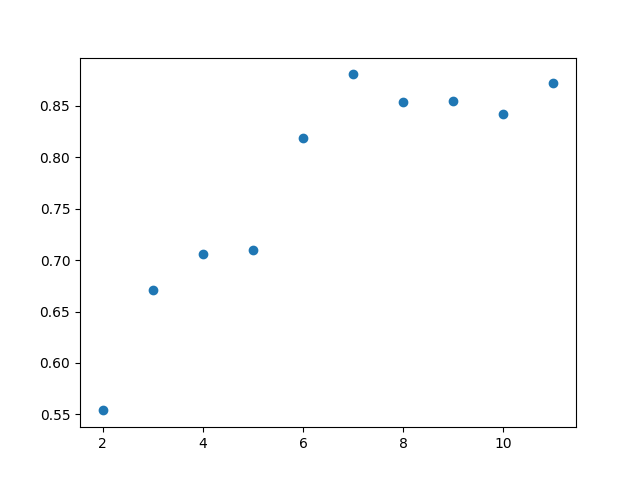
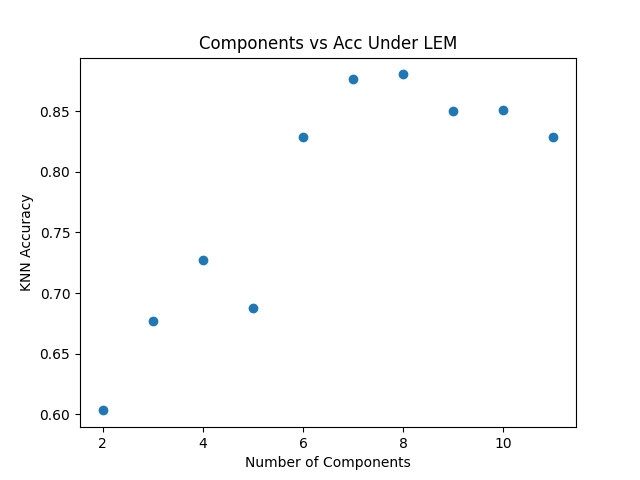
final commit

diff --git a/LLE.py b/LLE.py
@@ -7,28 +7,48 @@ from sklearn.preprocessing import StandardScaler
 from sklearn.neighbors import KNeighborsClassifier
 from sklearn.model_selection import train_test_split
 import matplotlib.pyplot as plt
+import numpy as np
 
 x, y = get_data()
 
 scaler = StandardScaler()
 dat_scaled = scaler.fit_transform(x)
 
-n_comp = []
+# n_comp = []
+# score = []
+# for n in range(2, 12):
+#     embedd = LocallyLinearEmbedding(n_components = n)
+#     dat_embedd = pd.DataFrame(embedd.fit_transform(dat_scaled))
+
+#     x_train, x_test, y_train, y_test = train_test_split(dat_embedd, y, test_size=.2, random_state=0)
+
+#     clf = KNeighborsClassifier(n_neighbors=2)
+#     clf.fit(x_train, y_train)
+#     acc = clf.score(x_test, y_test)
+
+#     n_comp.append(n)
+#     score.append(acc)
+
+
+# plt.figure() 
+# plt.scatter(n_comp, score)
+# plt.title('Components vs Acc Under LLE')
+# plt.xlabel('Number of Components')
+# plt.ylabel('KNN Accuracy')
+# plt.savefig('./fig/LLE.png')
+
+embedd = LocallyLinearEmbedding(n_components=11)
+dat_embedd = pd.DataFrame(embedd.fit_transform(dat_scaled))
+
 score = []
-for n in range(2, 12):
-    embedd = LocallyLinearEmbedding(n_components = n)
-    dat_embedd = pd.DataFrame(embedd.fit_transform(x))
 
-    x_train, x_test, y_train, y_test = train_test_split(dat_embedd, y, test_size=.2, random_state=0)
-
+for n in range(20):
+    x_train, x_test, y_train, y_test = train_test_split(dat_embedd, y, test_size=.2)
+    
     clf = KNeighborsClassifier(n_neighbors=2)
     clf.fit(x_train, y_train)
     acc = clf.score(x_test, y_test)
-
-    n_comp.append(n)
     score.append(acc)
 
-
-plt.figure() 
-plt.scatter(n_comp, score)
-plt.savefig('./fig/LLE.png')
+print(np.mean(score))
+    

diff --git a/pca.py b/pca.py
@@ -6,6 +6,7 @@ from sklearn.decomposition import PCA
 from sklearn.preprocessing import StandardScaler
 from sklearn.neighbors import KNeighborsClassifier
 from sklearn.model_selection import train_test_split
+import matplotlib.pyplot as plt
 
 x, y = get_data()
 
@@ -14,15 +15,37 @@ scaling = StandardScaler()
 scaling.fit(x)
 scaled_data = scaling.transform(x)
 
-components = PCA(n_components=11)    
-dat_pca = pd.DataFrame(components.fit_transform(scaled_data))
+# components = PCA(n_components=11)    
+# dat_pca = pd.DataFrame(components.fit_transform(scaled_data))
 
-x_train, x_test, y_train, y_test = train_test_split(dat_pca, y, test_size=.2, random_state=0)
+# x_train, x_test, y_train, y_test = train_test_split(dat_pca, y, test_size=.2, random_state=0)
 
-clf = KNeighborsClassifier(n_neighbors=2)
-clf.fit(x_train, y_train)
-acc = clf.score(x_test, y_test)
+# clf = KNeighborsClassifier(n_neighbors=2)
+# clf.fit(x_train, y_train)
+# acc = clf.score(x_test, y_test)
 
-print(acc)
+# print(components.explained_variance_ratio_)
+
 
 # From graph it seems the most optimal amount of components is 7
+n_comp = []
+score = []
+for n in range(2, 12):
+    components = PCA(n_components=n)
+    dat_pca = pd.DataFrame(components.fit_transform(scaled_data))
+
+    x_train, x_test, y_train, y_test = train_test_split(dat_pca, y, test_size=.2)
+    
+    clf = KNeighborsClassifier(n_neighbors=2)
+    clf.fit(x_train, y_train)
+    acc = clf.score(x_test, y_test)
+    
+    n_comp.append(n)
+    score.append(acc)
+
+plt.figure()
+plt.scatter(n_comp, score)
+plt.title('Components vs. Acc Under PCA')
+plt.xlabel('Number of Components')
+plt.ylabel('KNN Accuracy')
+plt.savefig('./fig/pca.png')

diff --git a/knn.py b/knn.py
@@ -4,16 +4,21 @@ import pandas as pd
 from process import get_data
 from sklearn.neighbors import KNeighborsClassifier
 from sklearn.model_selection import train_test_split
+import numpy as np
 
 x, y = get_data()
 
-x_train, x_test, y_train, y_test = train_test_split(x, y, test_size=.2, random_state=0)
+score = []
+for n in range(20):
+    x_train, x_test, y_train, y_test = train_test_split(x, y, test_size=.2)
 
-clf = KNeighborsClassifier(n_neighbors=2)
-clf.fit(x_train, y_train)
-acc = clf.score(x_test, y_test)
+    clf = KNeighborsClassifier(n_neighbors=2)
+    clf.fit(x_train, y_train)
+    acc = clf.score(x_test, y_test)
+    
+    score.append(acc)
 
-print(acc)
+print(np.mean(score))
 
 # Accuracy with raw data is about 60%
 

diff --git a/eignmap.py b/eignmap.py
@@ -31,6 +31,9 @@ dat_scaled = scaling.fit_transform(x)
 
 # plt.figure()
 # plt.scatter(n_comp, score)
+# plt.title('Components vs Acc Under LEM')
+# plt.xlabel('Number of Components')
+# plt.ylabel('KNN Accuracy')
 # plt.savefig('./fig/eigen.png')
 
 # We found that 7 is a good number of components for spectralembedding thus we we will continue with this
@@ -53,4 +56,4 @@ for n in range(20):
 
 print(np.mean(score))
 
-# We get an avg accuracy of .8724
+#We get an avg accuracy of .8724

diff --git a/kpca.py b/kpca.py
@@ -35,6 +35,9 @@ dat_scaled = scaling.fit_transform(x)
 
 # plt.figure()
 # plt.scatter(n_comp, score)
+# plt.title('Components vs Acc Under KPCA')
+# plt.xlabel('Number of Components')
+# plt.ylabel('KNN Accuracy')
 # plt.savefig('./fig/kpca.png')
 
 # We found 7 to be a good value for kpca, time to test
